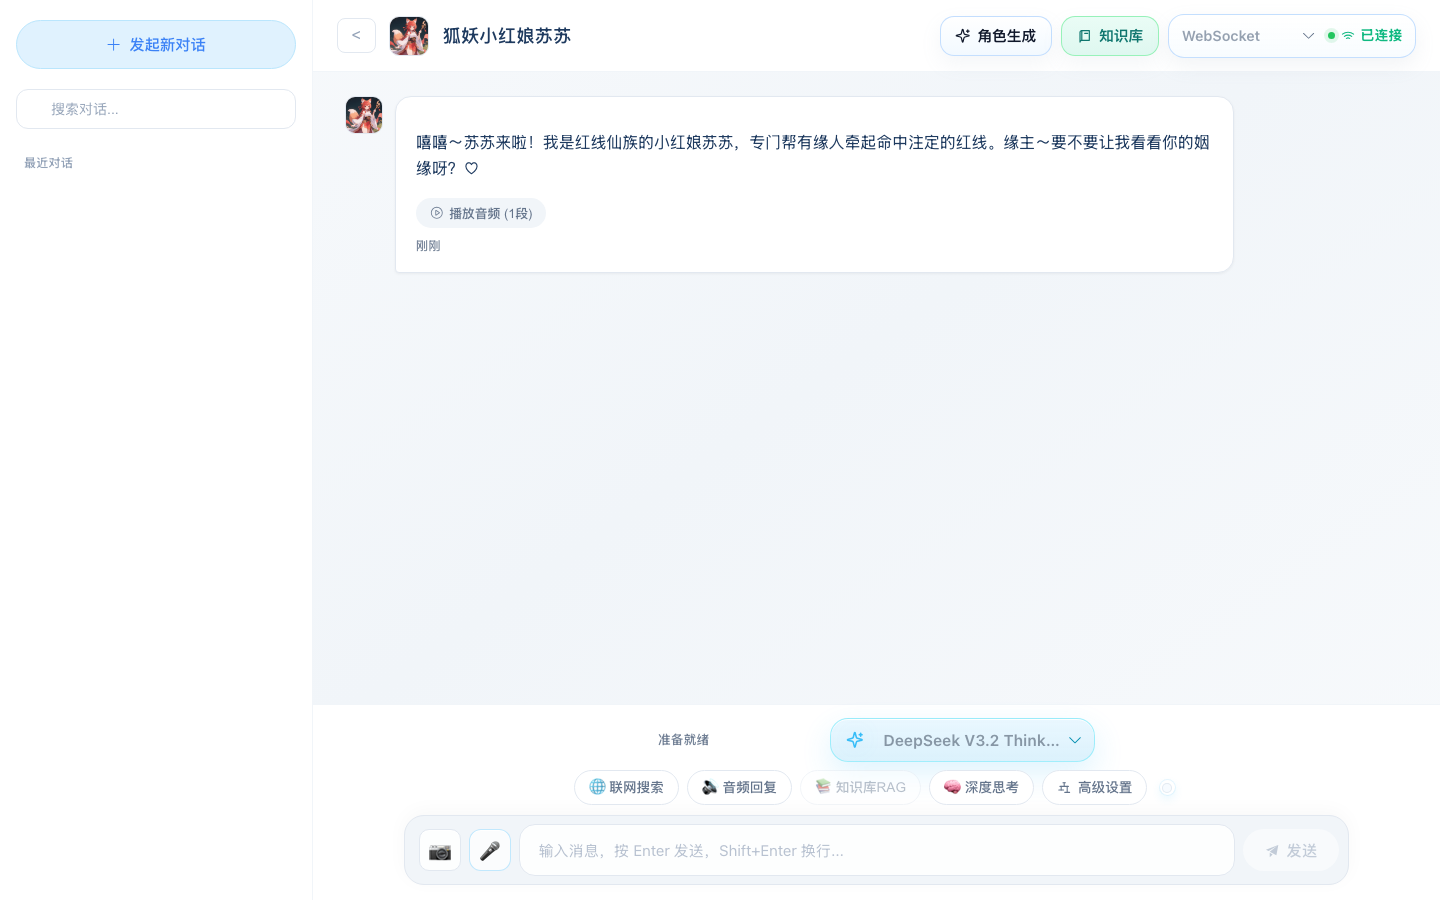
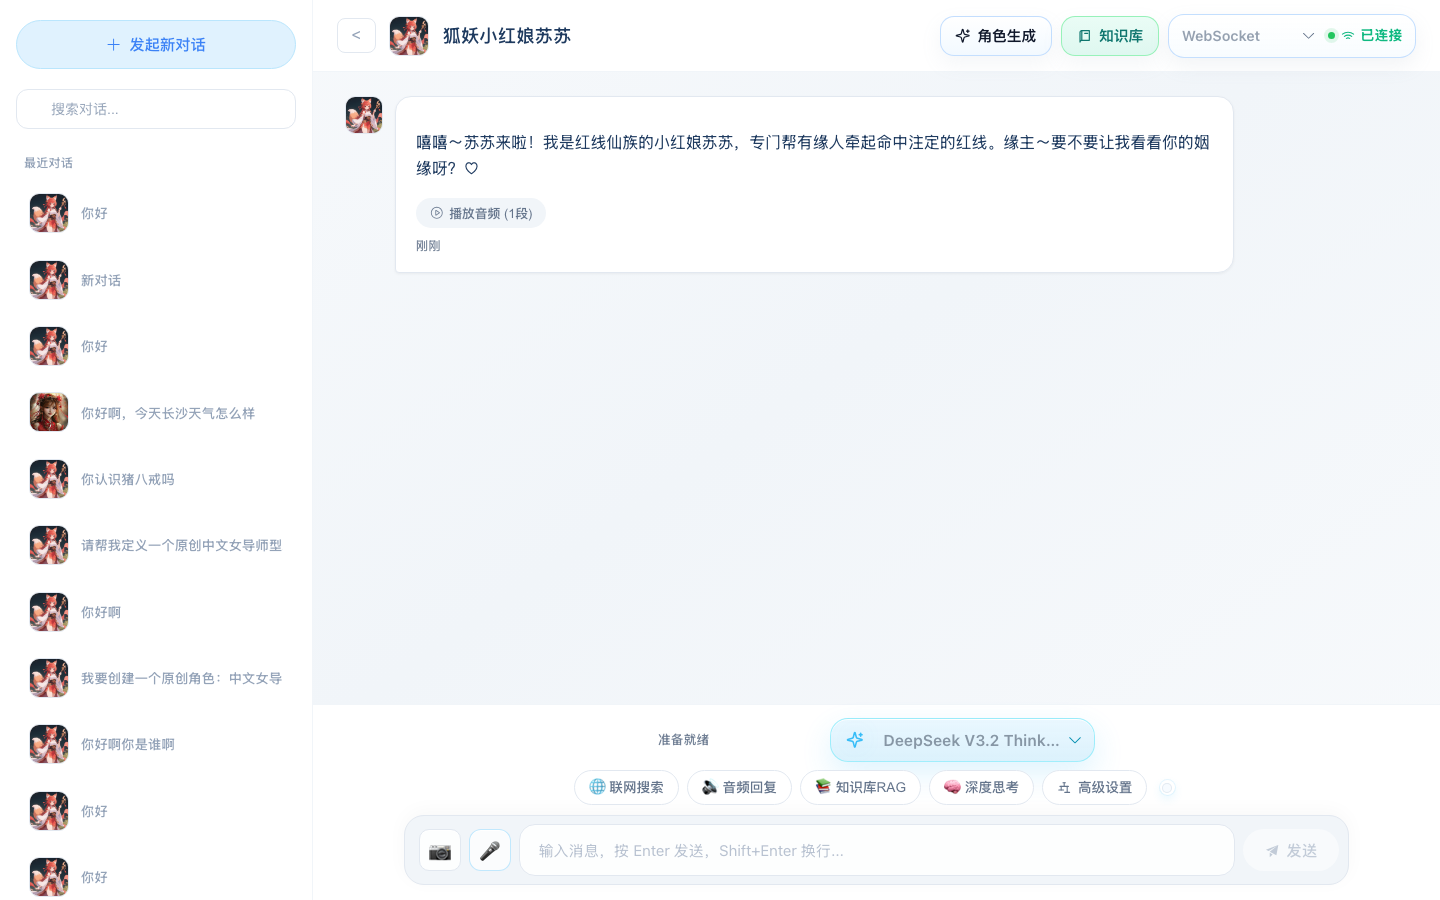
docs: 使用真实用户数据更新项目截图，精简为4张核心页面截图
- 使用 dlow71 账号数据重新截图，展示真实使用场景
- 精简为4张核心截图：角色选择、流式对话、知识库管理、语音通话
- 移除实验室和API密钥管理截图

diff --git a/README.md b/README.md
@@ -31,14 +31,6 @@ NexusVoice 是一个**生产级的多模态AI对话平台**，采用严格的DDD
       <img src="images/voice-call.png" alt="语音通话" />
     </td>
   </tr>
-  <tr>
-    <td width="50%">
-      <img src="images/lab.png" alt="实验室" />
-    </td>
-    <td width="50%">
-      <img src="images/api-keys.png" alt="API密钥管理" />
-    </td>
-  </tr>
 </table>
 
 
